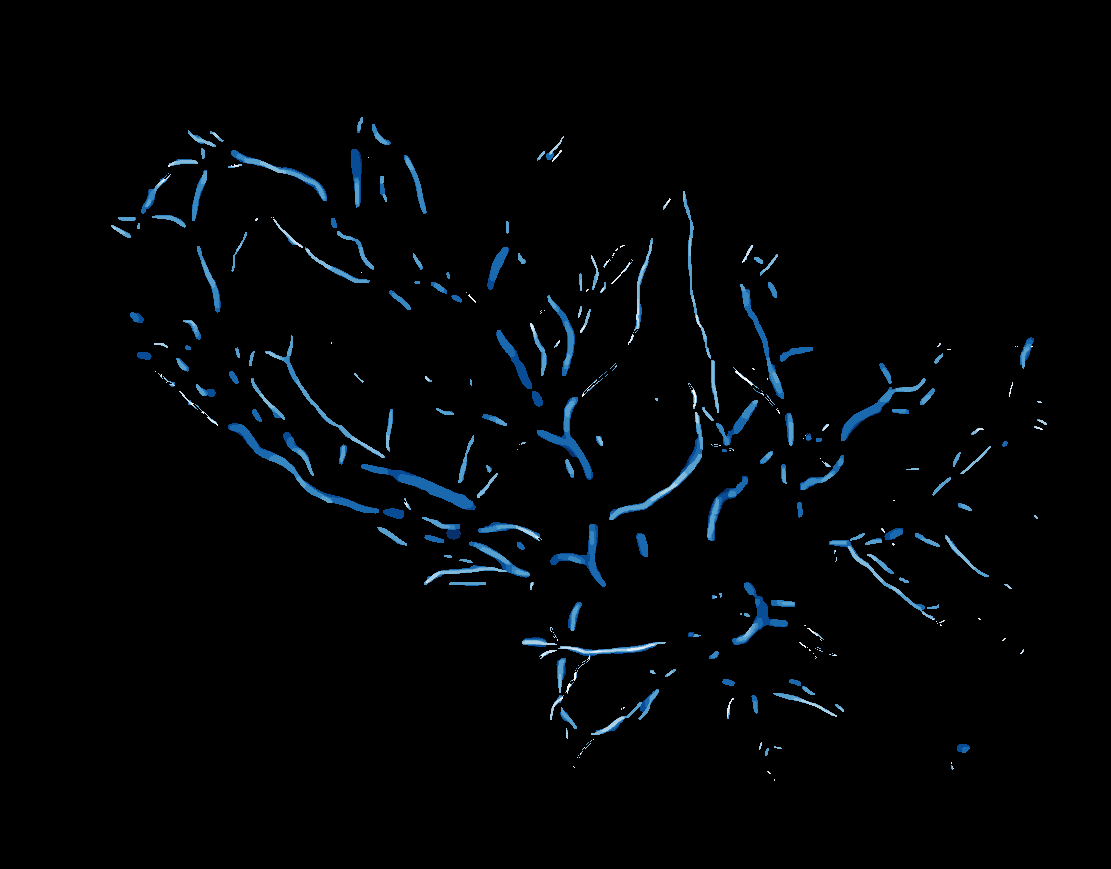
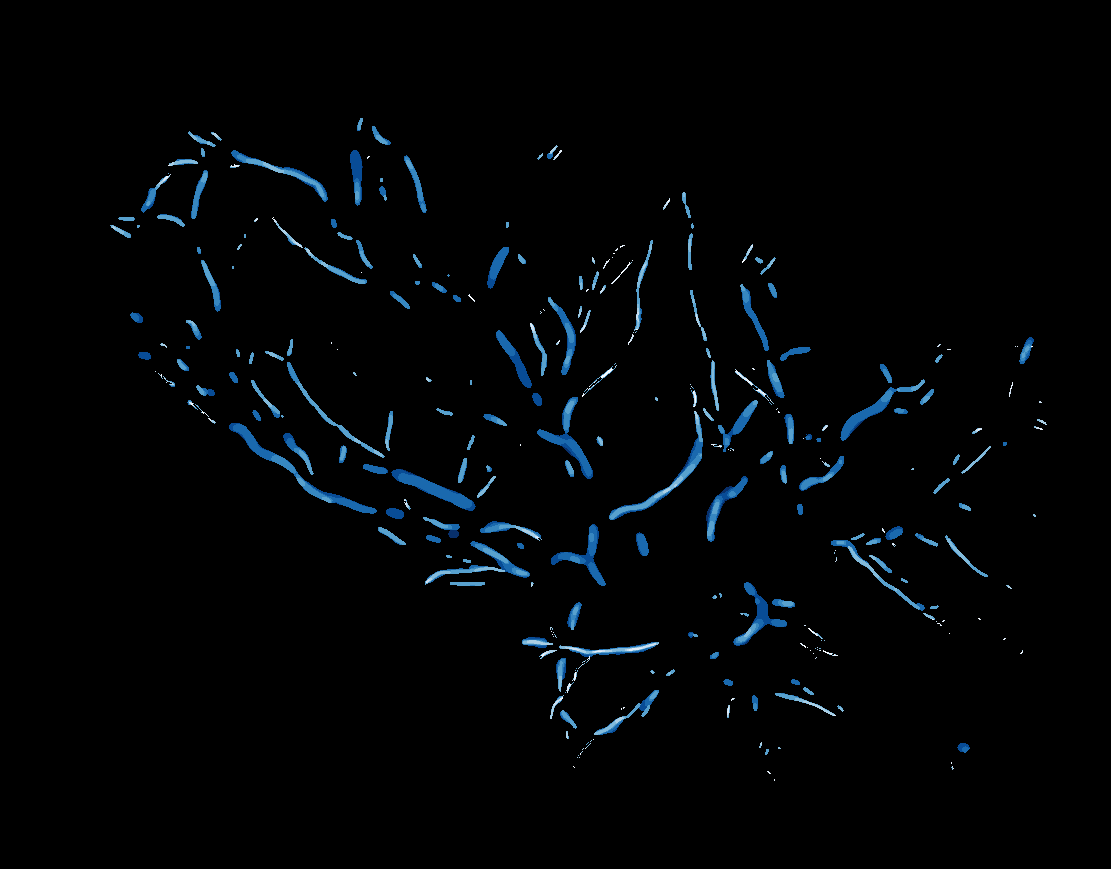
getting read for big run, fixing formatting

diff --git a/extract_NCS_pcsvn.py b/extract_NCS_pcsvn.py
@@ -45,7 +45,7 @@ from postprocessing import random_walk_fill, random_walk_scalewise
 # placentas = list_placentas('T-BN')
 # load placentas from a certain quality category 0=good, 1=okay, 2=fair, 3=poor
 
-placentas = list_by_quality(0, N=1)
+placentas = list_by_quality(0, N=6)
 #placentas = list()
 #placentas.extend(list_by_quality(1))
 #placentas.extend(list_by_quality(2))
@@ -63,8 +63,8 @@ placentas = list_by_quality(0, N=1)
 
 MAKE_NPZ_FILES = False # pickle frangi targets if you can
 USE_NPZ_FILES = False # use old npz files if you can
-NPZ_DIR = 'output/181201-L'  # where to look for npz files
-OUTPUT_DIR = 'output/181201-L'  # where to save outputs
+NPZ_DIR = 'output/181203'  # where to look for npz files
+OUTPUT_DIR = 'output/181203'  # where to save outputs
 
 # add in a meta switch for verbosity (or levels)
 #VERBOSE = False
@@ -92,7 +92,7 @@ REMOVE_GLARE = True
 REMOVE_CUTS = True
 
 # Which scales to use
-SCALE_RANGE = (-1.0, 3.5); SCALE_TYPE = 'logarithmic'
+SCALE_RANGE = (-1.5, 3.5); SCALE_TYPE = 'logarithmic'
 #SCALE_RANGE = (.2, 12); SCALE_TYPE = 'linear'
 N_SCALES = 20
 
@@ -106,14 +106,14 @@ BETAS = 0.35
 GAMMAS = 0.5
 CS = None # pass scalar, array, or None
 ALPHAS = None # set custom alphas or calculate later
-FIXED_ALPHA = .3
+FIXED_ALPHA = .4
 
 RESCALE_FRANGI = True
 GRADIENT_FILTER = False
 
 
 # Scoring Decisions (don't need to touch these)
-UCIP_RADIUS = 50  # area around the umbilical cord insertion point to ignore
+UCIP_RADIUS = 60  # area around the umbilical cord insertion point to ignore
 INV_SIGMA = 0.8
 # some other initializations, don't mind me
 
@@ -135,6 +135,7 @@ else:
 
 mccs = dict()  # empty dict to store MCC's of each sample
 pncs = dict()  # empty dict to store percent network covered for each sample
+precisions = dict()
 
 n_samples = len(placentas)
 
@@ -299,12 +300,7 @@ for i, filename in enumerate(placentas):
     #                                                     DARK_BG)
 
     approx_rw, labs_rw = random_walk_scalewise(F, .4, return_labels=True)
-    #confuse_margins = confusion(margins_added, trace, bg_mask=ucip_mask)
 
-    high_alphas = np.array([nz_percentile(F[..., k], 98.0)
-                           for k in range(N_SCALES)]
-                          )
-    high_frangi = apply_threshold(F,high_alphas, return_labels=False)
     confuse_rw = confusion(approx_rw, trace, bg_mask=ucip_mask)
     m_score_rw, counts_rw = mcc(approx_rw, trace, ucip_mask,
                                 return_counts=True)
@@ -314,6 +310,8 @@ for i, filename in enumerate(placentas):
     # --- Generating Visual Outputs--------------------------------------------
     crop = cropped_args(img)  # these indices crop out the mask significantly
 
+    fmax_colors = plt.cm.plasma
+    fmax_colors.set_bad('k', 1)
     # save the raw, unaltered image
     plt.imsave(outname('0_raw'), raw_img[crop].filled(0), cmap=plt.cm.gray)
 
@@ -321,8 +319,8 @@ for i, filename in enumerate(placentas):
     plt.imsave(outname('1_img'), img[crop].filled(0), cmap=plt.cm.gray)
 
     # save the maximum frangi output over all scales
-    plt.imsave(outname('2_fmax'), Fmax[crop], vmin=0, vmax=1.0,
-               cmap=plt.cm.nipy_spectral)
+    plt.imsave(outname('2_fmax'), ma.masked_where(Fmax==0,Fmax)[crop], vmin=0, vmax=1.0,
+               cmap=fmax_colors)
 
     # only save the colorbar the first time
     save_colorbar = (i==0)
@@ -331,12 +329,13 @@ for i, filename in enumerate(placentas):
                        save_colorbar_separate=save_colorbar,
                        output_dir=OUTPUT_DIR)
 
+    plt.imsave(outname('4_confusion'), confuse[crop])
+
     scale_label_figure(labs_rw, scales, crop=crop,
                        savefilename=outname('A_labeled_rw'), image_only=True,
                        save_colorbar_separate=save_colorbar,
                        output_dir=OUTPUT_DIR)
 
-    plt.imsave(outname('4_confusion'), confuse[crop])
 
     plt.imsave(outname('7_confusion_FA'), confuse_FA[crop])
     plt.imsave(outname('B_confusion_rw'), confuse_rw[crop])
@@ -390,6 +389,7 @@ for i, filename in enumerate(placentas):
     mccs[filename] =  (m_score, m_score_FA, m_score_rw, m_score_S )
     pncs[filename] = (percent_covered, percent_covered_FA, pnc_rw, pnc_S)
 
+
     print('percentage of skeltrace covered:(percentile filtering)',
           f'{percent_covered:.2%}')
     print('percentage of skeltrace covered (fixed alpha):',
@@ -403,8 +403,32 @@ for i, filename in enumerate(placentas):
     print(f'mcc score of {m_score_FA:.3} with fixed alpha {FIXED_ALPHA}')
     print(f'mcc score of {m_score_rw:.3} after random walker')
     print(f'mcc score of {m_score_S:.3} after sieving')
-    ### THIS IS ALL A HORRIBLE MESS. FIX IT
 
+
+    precision_score = lambda t: int(t[0]) / int(t[0] + t[2])
+
+    precision = precision_score(counts)
+    precision_FA = precision_score(counts_FA)
+    precision_rw = precision_score(counts_rw)
+    precision_S = precision_score(counts_S)
+
+    precisions[filename] = (precision, precision_FA, precision_rw, precision_S)
+
+    print(f'precision of {precision:.3} for percentile filtering')
+    print(f'precision of {precision_FA:.3} for fixed alpha')
+    print(f'precision of {precision_rw:.3} for random walker')
+    print(f'precision of {precision_S:.3} for sieving')
+
+    scoretable = pandas.DataFrame(np.vstack((mccs[filename], pncs[filename],
+                                            precisions[filename])),
+                                  columns=('percentile filtering (q=95)',
+                                  'fixed alpha (0.4)', 'per-scale RW',
+                                  'percentile sieve'),
+                        index=('MCC', '% skeltrace coverage', 'precision'))
+
+    print(scoretable)
+
+    ### THIS IS ALL A HORRIBLE MESS. FIX IT
     # why don't you just return the dict instead
     with open(jfile, 'r') as f:
         slog = json.load(f)
@@ -414,10 +438,13 @@ for i, filename in enumerate(placentas):
     slog['counts'] = c2d(counts)
     slog['counts_FA'] = c2d(counts_FA)
     slog['counts_rw'] = c2d(counts_rw)
+    slog['counts_S'] = c2d(counts_S)
     slog['pnc'] = pncs[filename]
     slog['mcc'] = mccs[filename]
     slog['scale_maxes'] = list(scale_maxes)
     slog['ALPHAS'] = list(ALPHAS)
+    slog['precision'] = precisions[filename]
+
 
     with open(jfile, 'w') as f:
         json.dump(slog, f)
@@ -445,7 +472,8 @@ runlog = {
     'remove_glare': REMOVE_GLARE,
     'files': list(placentas),
     'MCCS': mccs,
-    'PNC': pncs
+    'PNC': pncs,
+    'precisions': precisions
 }
 
 # save to a json file

diff --git a/rw_demo.py b/rw_demo.py
@@ -19,20 +19,27 @@ import matplotlib as mpl
 
 from skimage.segmentation import random_walker
 
+INTERACTIVE = True
 filename = list_by_quality('good')[0]
+
 print('running rw_demo on', filename)
+
 cimg = open_typefile(filename, 'raw')
 img = get_named_placenta(filename)
 crop = cropped_args(img)
 
-plt.imsave('demo_output/rw_demo/rw_demo_base.png', cimg[crop])
-plt.show()
+if INTERACTIVE:
+    plt.imsave('demo_output/rw_demo/rw_demo_base.png', cimg[crop])
+else:
+    plt.show()
+
 plt.close('all')
+
 cm = mpl.cm.plasma
 cmscales = mpl.cm.Blues
 cm.set_bad('k', 1)  # masked areas are black, not white
 cmscales.set_bad('k', 1)
-#scales = [0.5, 1.5, 3.0, 6.0]
+
 scales =np.logspace(-1.5, 3.5, num=12, base=2)
 threshold = .4
 
@@ -60,7 +67,7 @@ for n, sigma in enumerate(scales):
     ax[1].axis('off')
     ax[1].set_title(r'$\sigma={:.3f}$'.format(sigma))
 
-    rw = random_walker(f.filled(0), markers)
+    rw = random_walker(f.filled(0), markers, beta=20)
     W[n] = (rw == 2)
 
     # set the new stuff to a higher number so you can see what was added
@@ -73,8 +80,11 @@ for n, sigma in enumerate(scales):
     ax[2].axis('off')
     fig.tight_layout()
     fig.subplots_adjust(hspace=0.05, wspace=0.01)
-    #plt.show()
-    plt.savefig(f'demo_output/rw_demo/rw_demo_scale_{n:0{2}}.png')
+
+    if INTERACTIVE:
+        plt.show()
+    else:
+        plt.savefig(f'demo_output/rw_demo/rw_demo_scale_{n:0{2}}.png')
     plt.close('all')
 
 
@@ -83,10 +93,15 @@ for n, sigma in enumerate(scales):
 
 labs = np.argmax(W, axis=0) # returns the first index of boolean
 labs =ma.masked_where(labs==0, labs)
+
+fig, ax = plt.subplots(figsize=(10,10))
 plt.imshow(labs[crop], cmap=cmscales)
+plt.axis('off')
 # i should make this uniform with the rest but it looks like trash for some
 # reason
-plt.imsave('demo_output/rw_demo/rw_demo_labels.png', labs[crop],
-           cmap=cmscales)
-plt.axis('off')
-#plt.show()
+
+if INTERACTIVE:
+    plt.imsave('demo_output/rw_demo/rw_demo_labels.png', labs[crop],
+               cmap=cmscales)
+else:
+    plt.show()

diff --git a/scoring.py b/scoring.py
@@ -284,13 +284,21 @@ def confusion(test, truth, bg_mask=None, colordict=None, tint_mask=True):
 #            'mask': (247, 200, 200)  # mask color (not used in MCC calculation)
 #            }
 #
+        #colordict = {
+        #    'TN': (49,49,49),  # true negative# 'f7f7f7'
+        #    'TP': (0, 0, 0),  # true positive  # '000000'
+        #    'FN': (201,53,108),  # false negative # 'f1a340' orange
+        #    'FP': (0,112,163),  # false positive # '998ec4' purple
+        #    'mask': (247, 200, 200)  # mask color (not used in MCC calculation)
+        #    }
+
         colordict = {
-            'TN': (49,49,49),  # true negative# 'f7f7f7'
-            'TP': (0, 0, 0),  # true positive  # '000000'
-            'FN': (201,53,108),  # false negative # 'f1a340' orange
-            'FP': (0,112,163),  # false positive # '998ec4' purple
-            'mask': (247, 200, 200)  # mask color (not used in MCC calculation)
-            }
+                     'TP': (0,0,0),
+                     'TN': (226,226,226),
+                     'FN': (201,80,80),
+                     'FP': (30,69,230),
+                     'mask': (209,209,209)
+                     }
     #TODO: else check if mask is specified and add it as color of TN otherwise
 
     true_neg_color = np.array(colordict['TN'], dtype='f')/255

diff --git a/pcsvn.py b/pcsvn.py
@@ -1,5 +1,9 @@
 #!/usr/bin/env python3
 
+"""
+the contents of this file should be split up between frangi (multiscale)
+and scoring/output
+"""
 from placenta import get_named_placenta
 from diffgeo import principal_directions
 from frangi import frangi_from_image
@@ -250,7 +254,8 @@ def _build_scale_colormap(N_scales, base_colormap, basecolor=(0,0,0,1)):
 def scale_label_figure(wheres, scales, savefilename=None,
                        crop=None, show_only=False, image_only=False,
                        base_cmap='viridis_r', save_colorbar_separate=False,
-                       savecolorbarfile=None, output_dir=None):
+                       basecolor=(0, 0, 0, 1), savecolorbarfile=None,
+                       output_dir=None):
     """
     crop is a slice object.
     if show_only, then just plt.show (interactive).
@@ -265,7 +270,7 @@ def scale_label_figure(wheres, scales, savefilename=None,
     fig, ax = plt.subplots()  # not sure about figsize
     N = len(scales)  # number of scales / labels
 
-    tabemap = _build_scale_colormap(N, base_cmap)
+    tabemap = _build_scale_colormap(N, base_cmap, basecolor)
 
     if image_only:
         plt.imsave(savefilename, wheres, cmap=tabemap, vmin=0, vmax=N)

diff --git a/postprocessing.py b/postprocessing.py
@@ -55,7 +55,7 @@ def random_walk_scalewise(F, high_thresh=0.4, return_labels=False):
         # this could be a vector too
         markers[v > high_thresh] = 2
         # or 1-v
-        W[n] = (random_walker(v.filled(0), markers) == 2)
+        W[n] = (random_walker(v, markers) == 2)
     print()
     if not return_labels:
         return W.any(axis=0)
